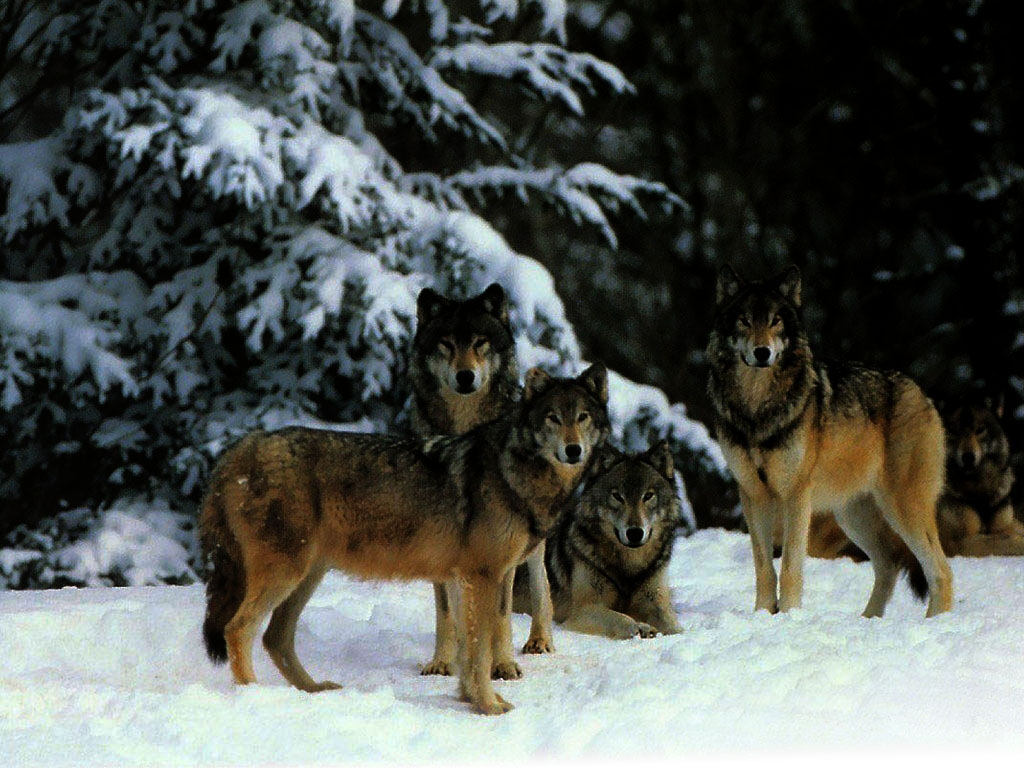
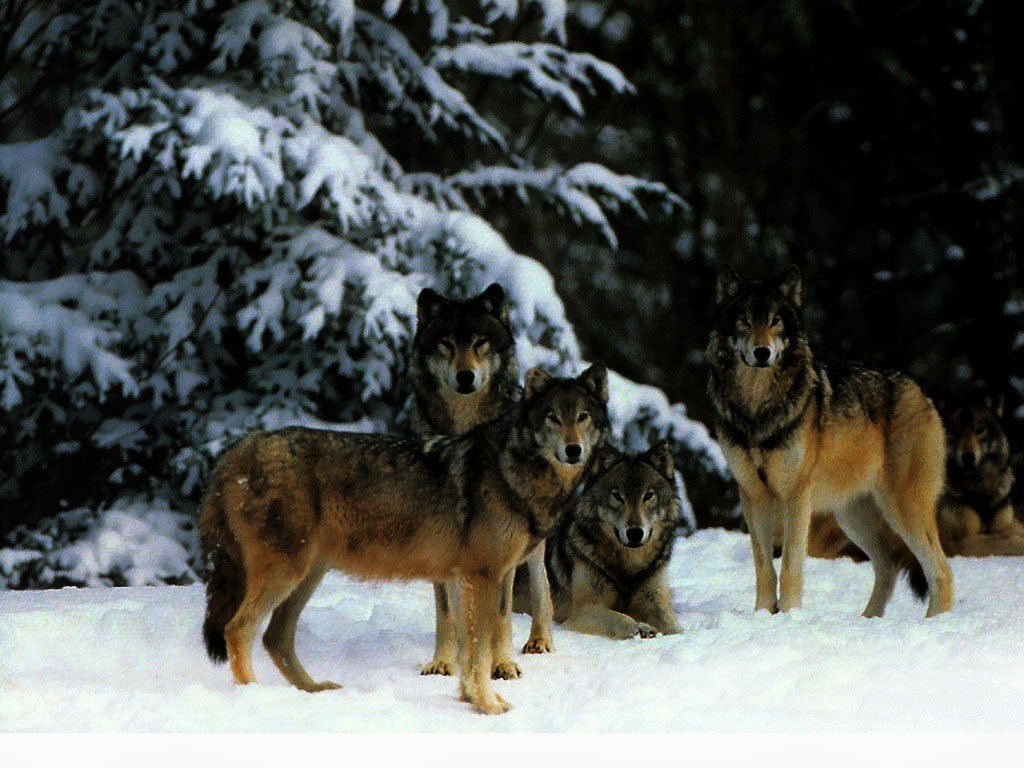
feathered wolves

Changed region(s): [[0.0, 0.8438, 0.7812, 1.0]]

diff --git a/css/creative.css b/css/creative.css
@@ -163,7 +163,7 @@ header {
   background-size: cover;
   -o-background-size: cover;
   background-position: bottom;
-  background-image: url('../img/wolves.jpg');
+  background-image: url('../img/wolvesgradient.jpg');
   text-align: center;
   color: white;
 }
